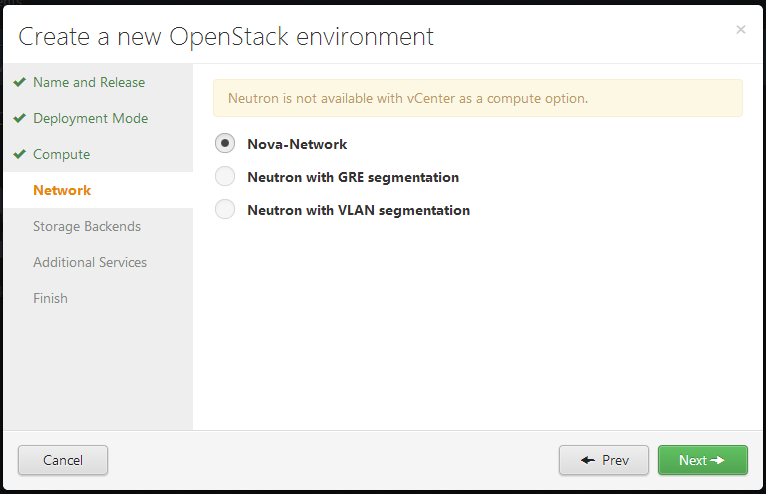
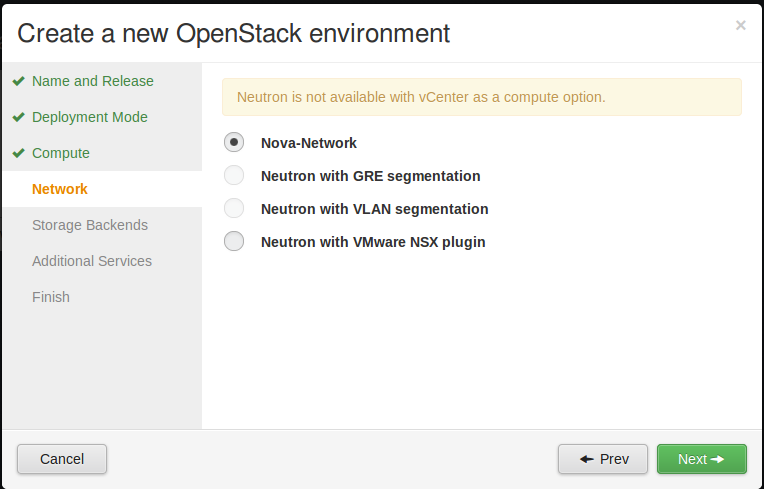
Describes how to set up Nova-network
* VLAN manager now can also  be used for Nova-network

Implements: blueprint vcenter-vlan-manager

diff --git a/pages/user-guide/7300-vcenter.rst b/pages/user-guide/7300-vcenter.rst
@@ -57,9 +57,8 @@ create the environment.
 Select Network Service for vCenter
 ----------------------------------
 
-Choose the Nova-network FlatDHCP manager on the Network settings page.
-This the only network topology you can use
-to deploy vCenter with Fuel 5.0.
+Currently, Nova-Network and Neutron with VMware NSX plugin are
+supported as Network Services for vCenter.
 
 .. image:: /_images/user_screen_shots/vcenter-networking.png
    :width: 50%
@@ -147,25 +146,44 @@ The Compute and Controller roles are combined on one node.
 Network settings
 ----------------
 
-Only the :ref:`nova-network-term` with FlatDHCP topology
-is supported in the current version of vCenter integration in Fuel.
+Choose either the Nova-network FlatDHCP or the VLAN manager.
 
-- Select the FlatDHCP manager in the Nova-network settings
+VLAN manager provides better virtual machine isolation, i.e. enables segregating
+virtual machine tenants into separate broadcast domains.
+
+- For *FlatDHCP manager*, select the checkbox in the Nova-network settings
 
 .. image:: /_images/user_screen_shots/vcenter-network-manager.png
-   :width: 80%
+   :width: 50%
 
 - Check the vCenter credentials
 
 .. image:: /_images/user_screen_shots/settings-vcenter.png
-   :width: 80%
+   :width: 50%
 
 - Enable the 'Use VLAN tagging for fixed networks' checkbox
   and enter the VLAN tag you selected
   for the VLAN ID in the ESXi host network configuration
 
 .. image:: /_images/user_screen_shots/vcenter-nova-network.png
-   :width: 80%
+   :width: 50%
+
+- For *VLAN manager*, select the checkbox in the Nova-network settings
+
+.. image:: /_images/user_screen_shots/nova-vlan-check.png
+   :width: 50%
+
+- Check the vCenter credentials
+
+.. image:: /_images/user_screen_shots/settings-vcenter.png
+   :width: 50%
+
+- Specify Nova-network configuration
+
+.. image:: /_images/user_screen_shots/nova-net-vlan.png
+   :width: 50%
+
+
 
 Storage
 -------

diff --git a/pages/planning-guide/7000-vcenter-plan.rst b/pages/planning-guide/7000-vcenter-plan.rst
@@ -113,8 +113,6 @@ Limitations
 - Only vCenter versions 5.1 and later are supported
 - It is not possible to specify the vCenter cluster
   where virtual instances will be launched.
-- Only :ref:`nova-network-term` with FlatDHCP mode is supported
-  in the current version of the integration.
 - Each OpenStack environment can support one vCenter cluster.
 - :ref:`security-groups-term` are not supported.
 - The only supported backend for Cinder is VMDK.
@@ -124,7 +122,6 @@ Limitations
   supports only IDE disks, so even if the volume is attached to it, CirrOS is
   not able to use it.
 - The Ceph backend for Glance, Cinder and RadosGW object storage is not supported.
-- The VMware vCenter-managed datastore is not supported as a backend for Glance.
 - Murano is not supported. It requires Neutron and vCenter utilizes nova-network.
 - Fuel does not configure Ceilometer to collect metrics from vCenter virtual resources.
   For more details about the Ceilometer plugin for vCenter,
